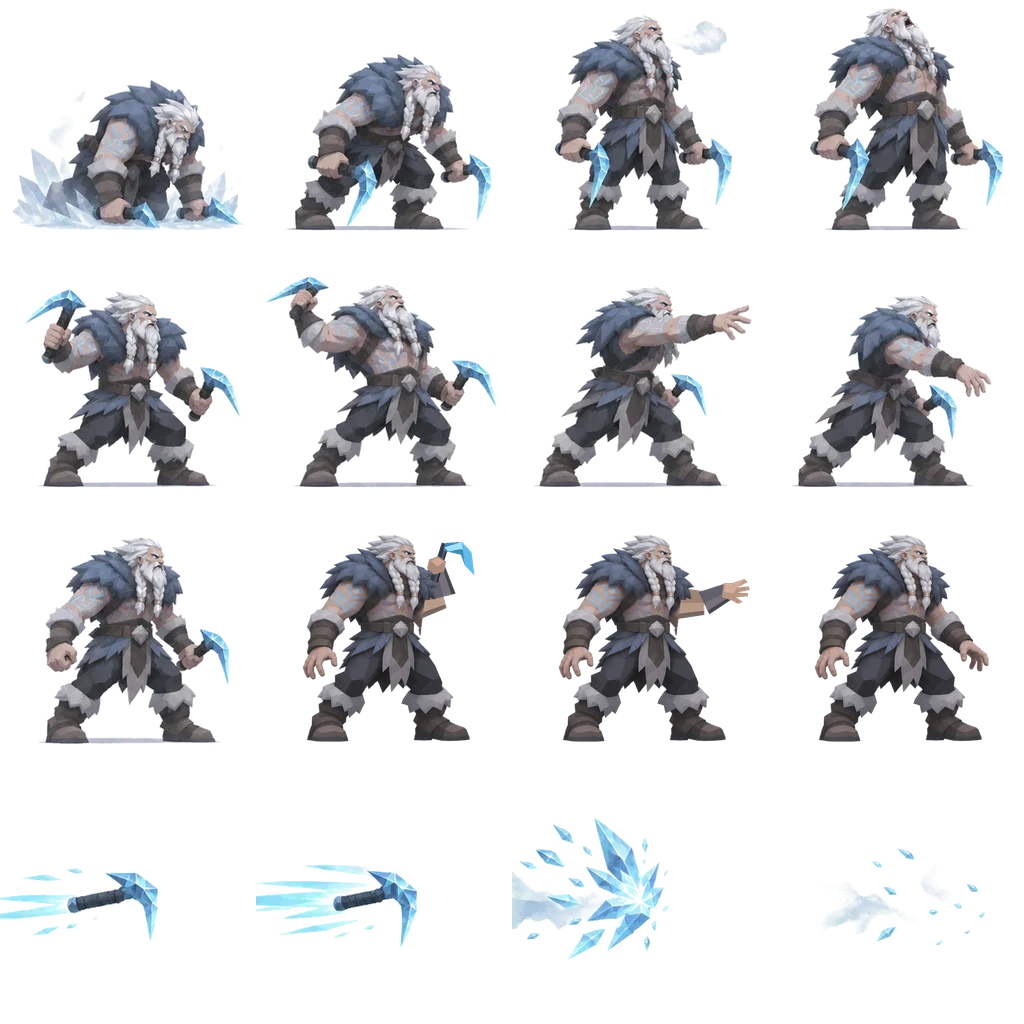
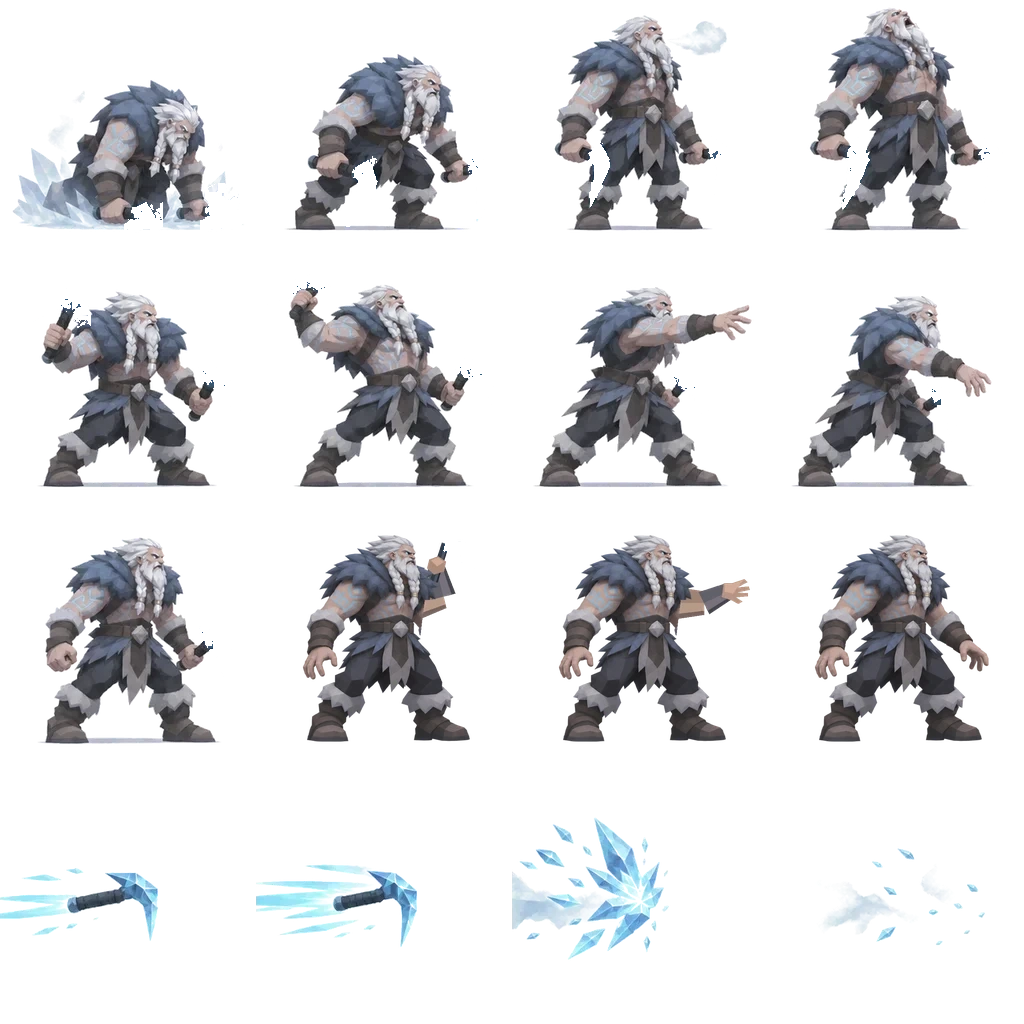
Attach larger forward-facing Double Pick weapons to each hand

diff --git a/assets/double-pick.js b/assets/double-pick.js
@@ -1,9 +1,14 @@
 (()=>{
   const art=new Image();
-  art.src="./assets/double-pick-frames.webp?v=0.290.1";
+  art.src="./assets/double-pick-frames.webp?v=0.290.2";
   const CELL=256, CENTER=500, GROUND=510, DURATION=4230;
   const RELEASES=[2290,3180];
   const POSE_TIMES=[0,360,900,1250,1790,2000,2290,2460,2740,2960,3180,3390];
+  // Coordinates marked on the right and left fists, in atlas pixels.
+  const RIGHT_GRIPS=[[113,208],[73,165],[63,149],[64,149],[52,82],[47,48]];
+  const LEFT_GRIPS=[[193,209],[196,169],[180,151],[200,153],[196,148],[193,138],
+    [152,141],[158,145],[189,145],[179,55]];
+  const ACTOR_SIZE=239;
   const clamp=n=>Math.max(0,Math.min(1,n));
 
   function frame(g,pose,x,y,size,dir=1,anchor=.5){
@@ -15,6 +20,38 @@
     g.restore();
   }
 
+  function heldPick(g,x,y){
+    const facets=[
+      ["#254b66",[[0,-5],[37,-10],[40,2],[0,6]]],
+      ["#b9f0ff",[[30,-13],[45,-31],[69,-35],[94,-25],[70,-22],[54,-10],[43,5]]],
+      ["#66d6f8",[[43,5],[54,-10],[70,-22],[94,-25],[80,-10],[61,2],[49,17]]],
+      ["#378cc0",[[43,5],[49,17],[61,2],[80,-10],[62,-6]]],
+      ["#e0faff",[[45,-31],[69,-35],[94,-25],[67,-29]]]
+    ];
+    g.save();
+    g.translate(x,y);
+    for(const [color,points] of facets){
+      g.fillStyle=color;
+      g.beginPath();
+      g.moveTo(...points[0]);
+      for(const point of points.slice(1))g.lineTo(...point);
+      g.closePath();
+      g.fill();
+    }
+    g.restore();
+  }
+
+  function actorFrame(g,pose,x,y,size,dir){
+    frame(g,pose,x,y,size,dir,.90);
+    g.save();
+    g.translate(x,y);
+    g.scale(dir*size/CELL,size/CELL);
+    for(const grip of [LEFT_GRIPS[pose],RIGHT_GRIPS[pose]]){
+      if(grip)heldPick(g,grip[0]-CELL/2,grip[1]-CELL*.90);
+    }
+    g.restore();
+  }
+
   function caster(g,elapsed,dir,hasSecondTarget){
     const pose=Math.max(0,POSE_TIMES.findLastIndex(ms=>elapsed>=ms));
     g.save();
@@ -23,7 +60,7 @@
     g.ellipse(CENTER,GROUND,38,8,0,0,Math.PI*2);
     g.fillStyle="rgba(8, 31, 50, .34)";
     g.fill();
-    frame(g,hasSecondTarget?pose:Math.min(pose,7),CENTER,GROUND,239,dir,.90);
+    actorFrame(g,hasSecondTarget?pose:Math.min(pose,7),CENTER,GROUND,ACTOR_SIZE,dir);
     g.restore();
   }
 
@@ -47,7 +84,7 @@
 
   function portrait(g,width,height){
     const size=Math.min(width,height);
-    frame(g,3,width/2,height*.95,size*1.14,1,.90);
+    actorFrame(g,3,width/2,height*.95,size*1.02,1);
   }
   window.DoublePick={caster,projectile,portrait,ground:GROUND};
   art.addEventListener("load",()=>window.WIZARDRY_ARENA_TEST?.drawCardArts());

diff --git a/index.html b/index.html
@@ -1,1 +1,1 @@
-<!doctype html><html lang="en"><head><meta charset="utf-8"><meta name="viewport" content="width=device-width,initial-scale=1"><title>Wizardry : The Fall of Lupen’s Kingdom</title><meta http-equiv="refresh" content="0;url=./arena.html?v=0.290.1"><script>const query=new URLSearchParams(location.search);query.set('v','0.290.1');location.replace('./arena.html?'+query+location.hash);</script></head><body><a href="./arena.html?v=0.290.1">Enter Wizardry</a></body></html>
+<!doctype html><html lang="en"><head><meta charset="utf-8"><meta name="viewport" content="width=device-width,initial-scale=1"><title>Wizardry : The Fall of Lupen’s Kingdom</title><meta http-equiv="refresh" content="0;url=./arena.html?v=0.290.2"><script>const query=new URLSearchParams(location.search);query.set('v','0.290.2');location.replace('./arena.html?'+query+location.hash);</script></head><body><a href="./arena.html?v=0.290.2">Enter Wizardry</a></body></html>

diff --git a/arena.html b/arena.html
@@ -301,7 +301,7 @@
 <script src="./assets/lightning-field.js?v=0.287.0" defer></script>
 <script src="./assets/sunfire.js?v=0.288.0" defer></script>
 <script src="./assets/land-ray.js?v=0.289.5" defer></script>
-<script src="./assets/double-pick.js?v=0.290.1" defer></script>
+<script src="./assets/double-pick.js?v=0.290.2" defer></script>
 <script src="./arena.js?v=0.290.0" defer></script>
 <script src="./assets/menu-music.js?v=0.282.2" defer></script>
 <script src="./assets/wizard-home-v135.js?v=0.284.9" defer></script>
